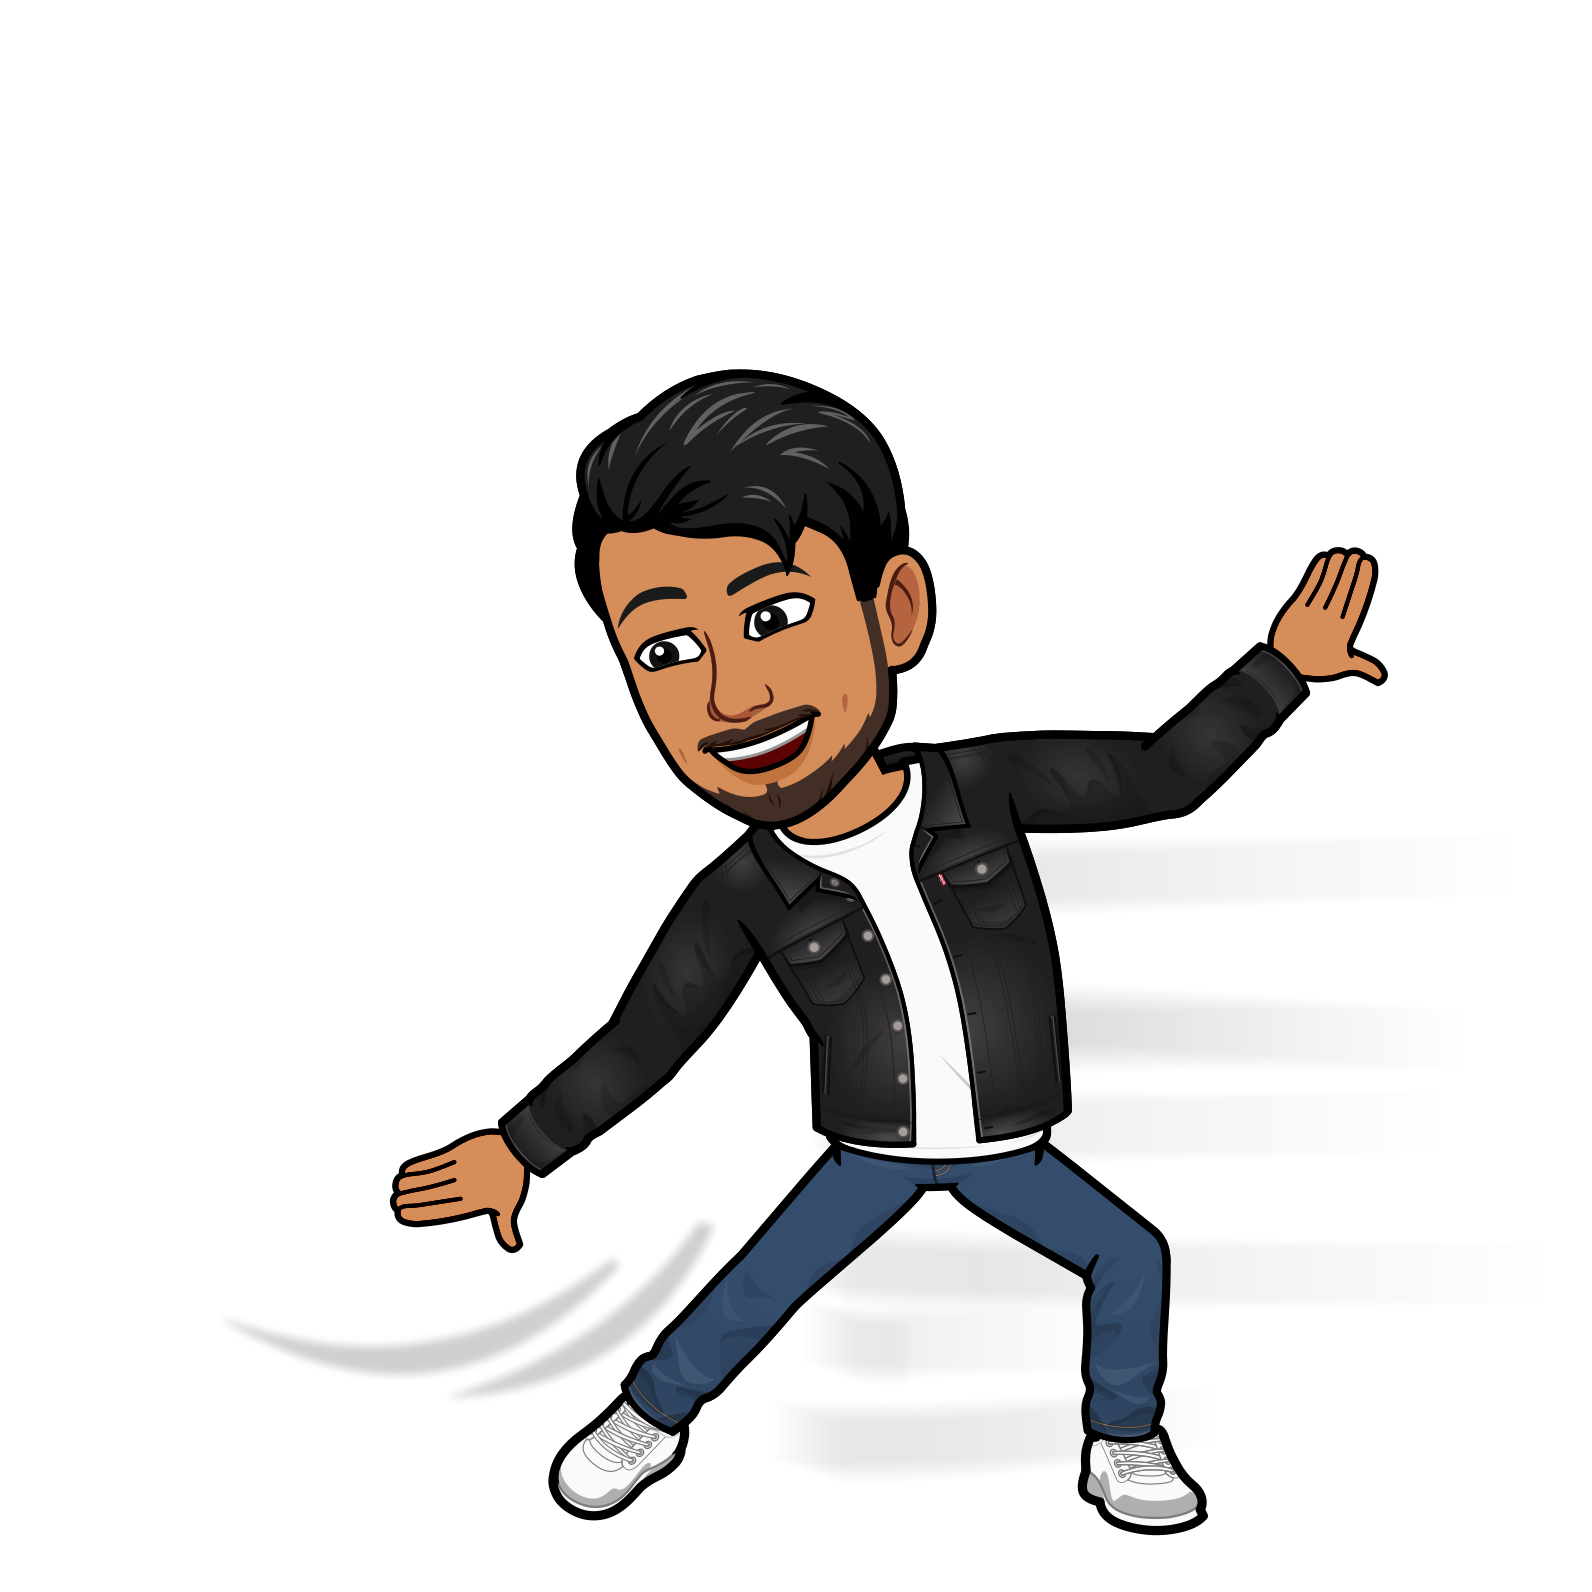
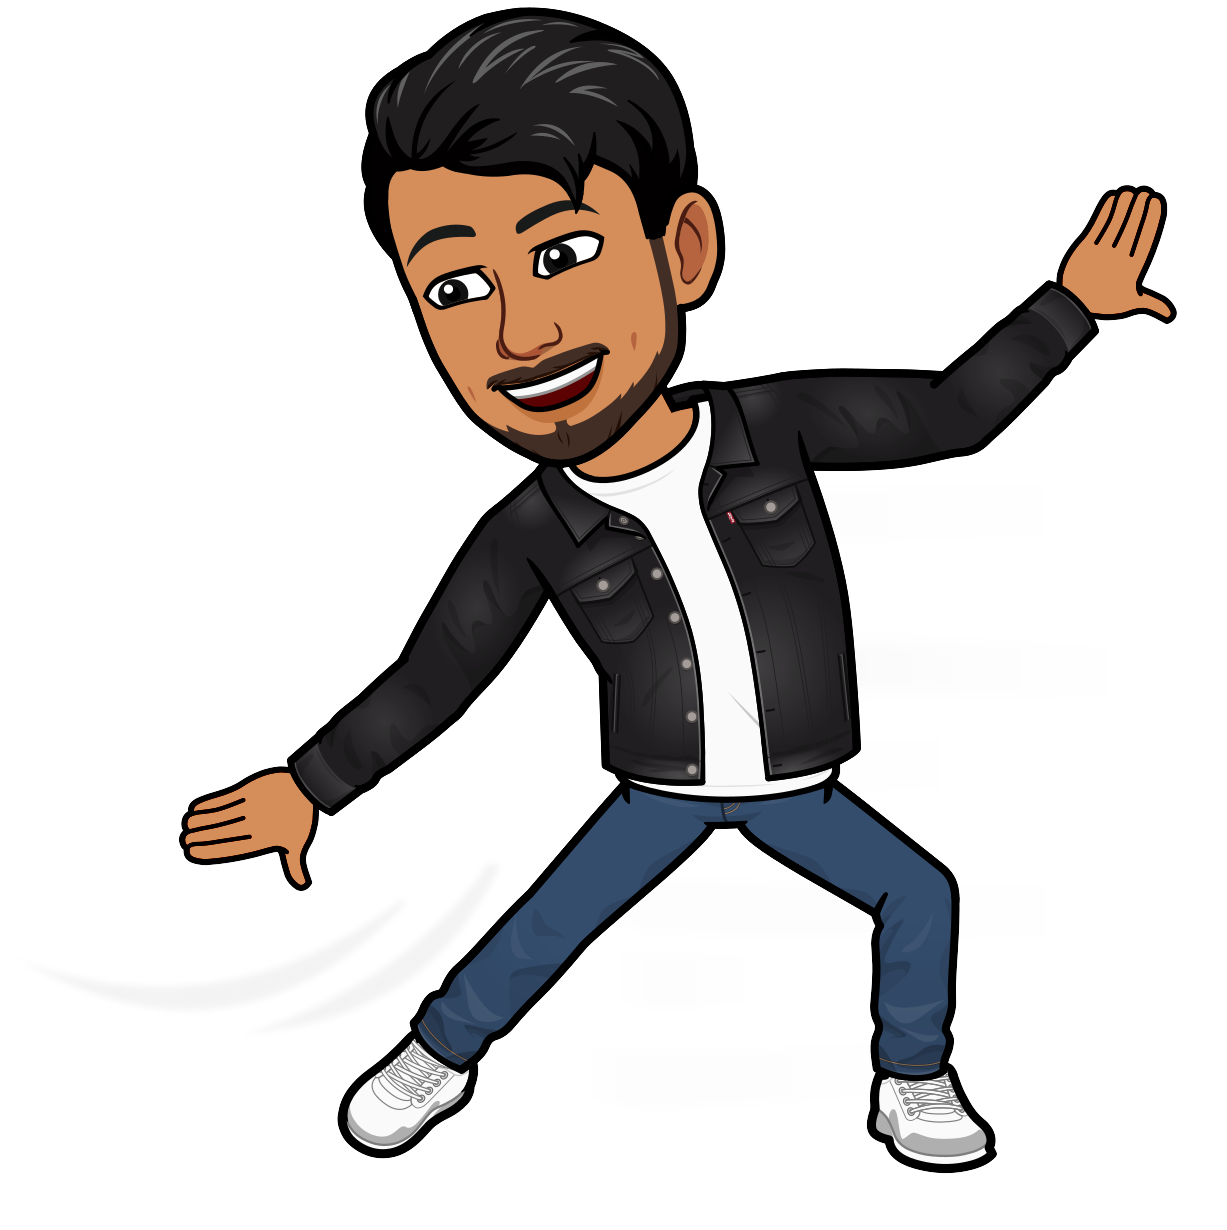
completed about section and made it responsive

Changed region(s): [[0.1239, 0.0, 0.9601, 0.9886]]

diff --git a/src/components/About/About.js b/src/components/About/About.js
@@ -1,0 +1,34 @@
+import './About.css';
+import about from '../../imgs/about.png';
+
+function About() {
+    return (
+        <div className='about-container'>
+            <div className='title'>ABOUT</div>
+            <div className = 'wrapper'>
+                <div className='about-text'>
+                    <p>
+                        I am a recent graduate from the University of Washington with a degree in 
+                        Computer Science. I have a strong academic background with a GPA of 3.92 
+                        and I have made to the Dean's List for all four years of my college 
+                        education. I graduated top 10% of my class and am a Cum Laude honors 
+                        recipient.
+                    </p>
+                    <p>
+                        Over the past four years, I have worked on several projects based on my 
+                        knowledge of Object Oriented Programming, Data Structures, Algorithm Analysis, 
+                        and Software Engineering. I am known among my peers, instructors, and colleagues
+                        as a motivated leader, recognized for being passionate, reliable, hardworking,
+                        trustworthy, and an enthusiastic collaborator. My extensive experiences in 
+                        collaborative software development gained through internships and coursework, 
+                        have allowed me to cultivate leadership skills.
+                    </p>
+                </div>
+                <img src={about} alt='about bitmoji'/>
+            </div>
+            
+        </div>
+    )
+}
+
+export default About;

diff --git a/src/components/About/About.css b/src/components/About/About.css
@@ -1,0 +1,79 @@
+.title {
+    font-size: 300%;
+    font-weight: 700;
+    width: 15%;
+    margin-left: auto;
+    margin-right: auto;
+    margin-top: 5vh;
+    border-radius: 20px;
+    border: 6px solid #b31cff;
+    color: #8100c1;
+    text-align: center;
+    padding: 2vh;
+}
+
+.wrapper img {
+    height: 62vh;
+    width: auto;
+}
+
+.wrapper {
+    display: flex;
+    justify-content: space-around;
+    align-items: center;
+    margin-top: 5vh;
+    width: 90%;
+    margin-left: auto;
+    margin-right: auto;
+}
+
+.about-text {
+    align-self: flex-start;
+    font-size: 3vh;
+    color: #8100c1;
+    font-weight: 600;
+    width: 50%;
+}
+
+@media (max-width: 1200px) {
+    .title {
+        font-size: 200%;
+        border-width: 5px;
+    }
+
+    .about-text {
+        font-size: 2.5vh;
+        width: 50%;
+    }
+
+    .wrapper img {
+        height: 50vh;
+        width: auto;
+    }
+}
+
+@media (max-width: 1024px) {
+    .wrapper {
+        flex-direction: column-reverse;
+        justify-content: center;
+        align-items: center;
+    }
+
+    .title {
+        font-size: 150%;
+        width: 25%;
+        border-width: 5px;
+    }
+
+    .about-text {
+        font-size: 2.4vh;
+        width: 95%;
+        margin-left: auto;
+        margin-right: auto;
+    }
+
+    .wrapper img {
+        height: 40vh;
+        width: auto;
+    }
+}

diff --git a/src/index.js b/src/index.js
@@ -1,13 +1,15 @@
 import React from 'react';
 import ReactDOM from 'react-dom/client';
 import './index.css';
-import Navbar from './components/Navbar/Navbar'
+import Navbar from './components/Navbar/Navbar';
 import Splashscreen from './components/Splashscreen/Splashscreen';
+import About from './components/About/About';
 
 const root = ReactDOM.createRoot(document.getElementById('root'));
 root.render(
   <React.StrictMode>
     <Navbar />
     <Splashscreen />
+    <About/>
   </React.StrictMode>
 );

diff --git a/src/components/Navbar/Navbar.css b/src/components/Navbar/Navbar.css
@@ -9,10 +9,10 @@
     z-index: 1000;
     display: flex;
     justify-content: space-between;
-    padding-top: 5vh;
+    padding-top: 3vh;
     padding-left: 8vh;
     padding-right: 8vh;
-    padding-bottom: 5vh;
+    padding-bottom: 3vh;
     font-size: 3vh;
 }
 

diff --git a/src/index.css b/src/index.css
@@ -2,3 +2,7 @@ body {
   margin: 0;
   font-family: "Helvetica Neue", Arial, sans-serif;
 }
+
+::-webkit-scrollbar {
+  width: 0px; /* Width of the scrollbar */
+}
